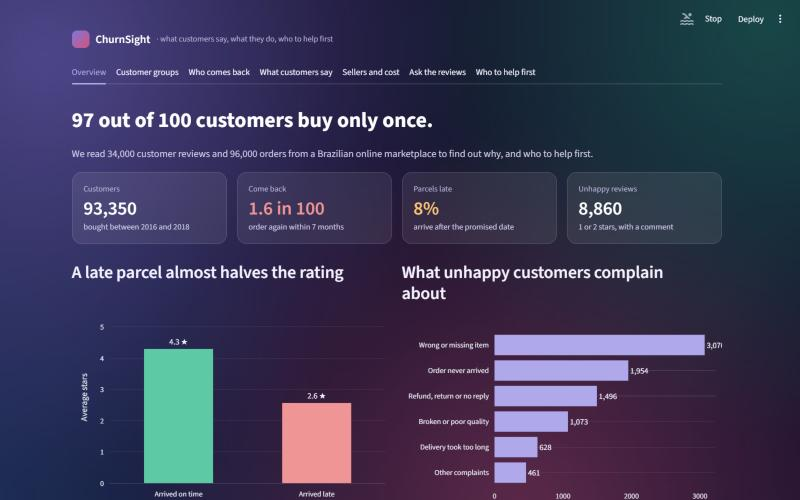
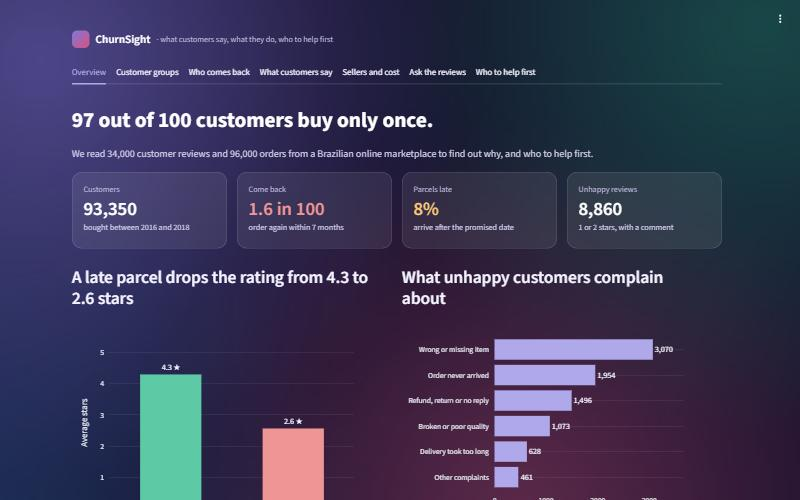
Fix clipped chart labels, clearer headlines, hide dev toolbar, refresh screenshot

diff --git a/app/dashboard.py b/app/dashboard.py
@@ -80,8 +80,8 @@ with tabs[0]:
 
     left, right = st.columns(2)
     with left:
-        st.subheader("A late parcel almost halves the rating")
         on, late = eda.get("avg_review_score_on_time", 0), eda.get("avg_review_score_late", 0)
+        st.subheader(f"A late parcel drops the rating from {on:.1f} to {late:.1f} stars")
         fig = go.Figure(go.Bar(x=["Arrived on time", "Arrived late"], y=[on, late], marker_color=[T.TEAL, T.RED],
                                text=[f"{on:.1f} ★", f"{late:.1f} ★"], textposition="outside", width=0.5))
         st.plotly_chart(T.style(fig).update_yaxes(range=[0, 5.5], title="Average stars"), width="stretch")
@@ -94,7 +94,9 @@ with tabs[0]:
             s = pd.Series(agg).sort_values()
             fig = go.Figure(go.Bar(x=s.values, y=s.index, orientation="h", marker_color=T.PURPLE,
                                    text=[f"{v:,}" for v in s.values], textposition="outside"))
-            st.plotly_chart(T.style(fig).update_xaxes(title="Unhappy reviews"), width="stretch")
+            # Leave room on the right so the value labels are never cut off.
+            st.plotly_chart(T.style(fig).update_xaxes(title="Unhappy reviews", range=[0, s.max() * 1.2]),
+                            width="stretch")
 
     st.subheader("What we should do")
     a = st.columns(3)
@@ -259,7 +261,8 @@ with tabs[3]:
 # =================================================================== Sellers and cost
 with tabs[4]:
     T.hero("A few sellers cause a lot of the pain.",
-           "Some sellers get complaints on most of their orders. Complaints also make customers a little less likely to return.")
+           "For some sellers, most of their reviews are complaints. Customers who complained also came back "
+           "a little less often, though that gap is small.")
     if hot is not None:
         top = hot.head(10).copy()
         top["name"] = [f"Seller {chr(65 + i)} · {cat.replace('_', ' ')}" for i, cat in enumerate(top["main_category"].fillna("various").replace("unknown", "various"))]
@@ -269,7 +272,8 @@ with tabs[4]:
         fig.add_vline(x=avg * 100, line_dash="dash", line_color=T.MUTED, annotation_text="average seller",
                       annotation_position="bottom right", annotation_font_color=T.AMBER)
         st.subheader("Reviews with a complaint, by seller")
-        st.plotly_chart(T.style(fig, 400).update_yaxes(autorange="reversed").update_xaxes(title="% of reviews with a complaint"),
+        st.plotly_chart(T.style(fig, 400).update_yaxes(autorange="reversed")
+                        .update_xaxes(title="% of reviews with a complaint", range=[0, top["complaint_rate"].max() * 120]),
                         width="stretch")
     if impact is not None:
         st.subheader("Does a bad first experience stop people coming back?")
